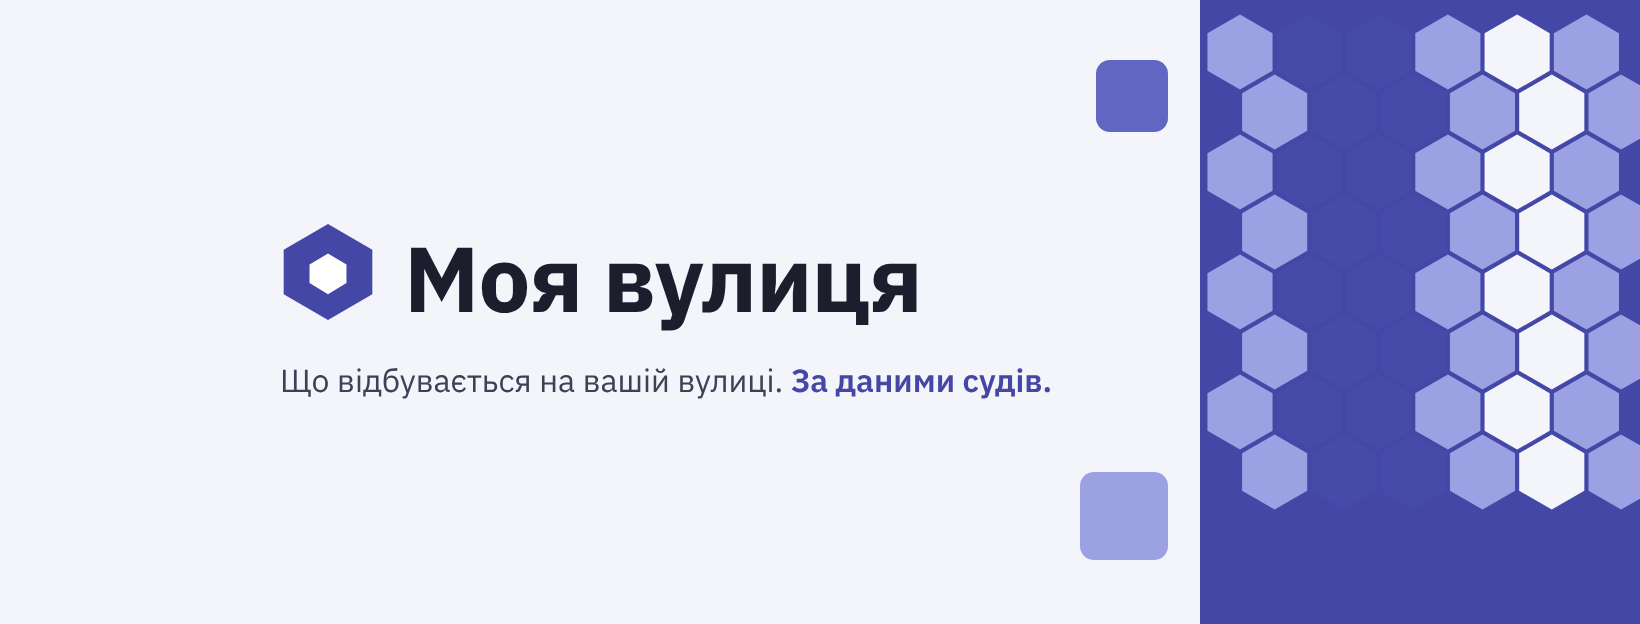
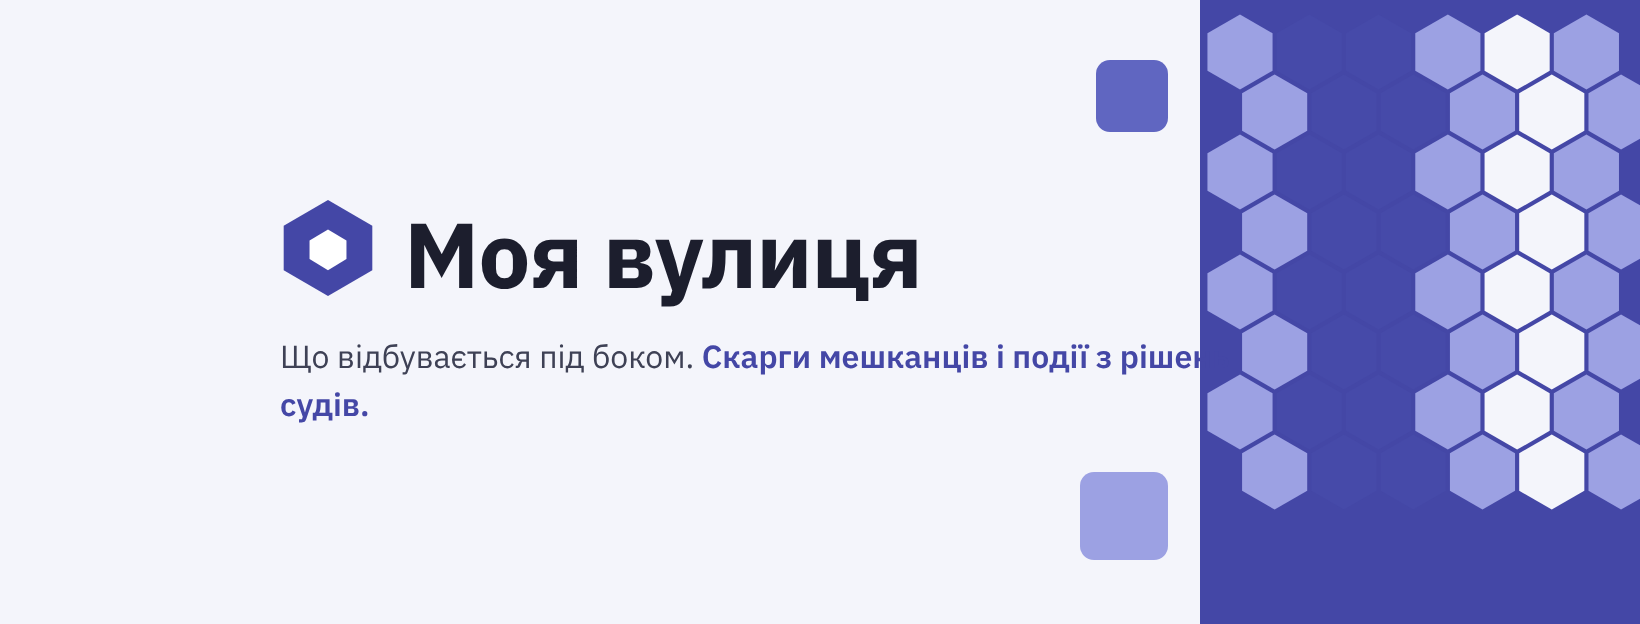
Нові гасла скрізь (MV-106, MV-107; ZAVDANNYA-93)
* ZAVDANNYA-93: нові гасла в профілях і обкладинках (MV-106)

Claude-Session: https://claude.ai/code/session_01R2AQHkkfLLALW9osnQmNE6

* ZAVDANNYA-93: нові гасла на сайті, заглушці й у маніфесті; тест старих гасел (MV-106, MV-107)

Claude-Session: https://claude.ai/code/session_01R2AQHkkfLLALW9osnQmNE6

* ZAVDANNYA-93: кінцівки роликів — нові гасла (MV-106)

Claude-Session: https://claude.ai/code/session_01R2AQHkkfLLALW9osnQmNE6

* ZAVDANNYA-93: звіт, знімки до/після, стан

Claude-Session: https://claude.ai/code/session_01R2AQHkkfLLALW9osnQmNE6

---------

Changed region(s): [[0.1555, 0.3045, 0.7463, 0.6699]]

diff --git a/site/zahlushka/index.html b/site/zahlushka/index.html
@@ -5,8 +5,8 @@
 <meta name="viewport" content="width=device-width, initial-scale=1">
 <meta name="referrer" content="no-referrer">
 <meta http-equiv="Content-Security-Policy" content="default-src 'self'; script-src 'self'; style-src 'self'; font-src 'self'; img-src 'self' data:; connect-src 'self' https://*.supabase.co; form-action 'none'; base-uri 'none'">
-<title>Моя вулиця — що суди розповіли про вашу вулицю</title>
-<meta name="description" content="Карта подій із судових рішень. Київ відкривається незабаром — залиште контакт на передзамовлення.">
+<title>Моя вулиця — що відбувається під боком</title>
+<meta name="description" content="Що відбувається під боком: скарги мешканців і події з рішень судів — по кожному будинку. Київ відкривається незабаром — залиште контакт на передзамовлення.">
 <link rel="preload" href="shryfty/ibm-plex-sans-cyrillic-700-normal.woff2" as="font" type="font/woff2" crossorigin>
 <link rel="preload" href="shryfty/ibm-plex-sans-cyrillic-400-normal.woff2" as="font" type="font/woff2" crossorigin>
 <meta name="theme-color" content="#4447A6" media="(prefers-color-scheme: light)">
@@ -35,7 +35,7 @@
 <section class="pershyi">
 <div class="pershyi__tekst">
 <span class="znachok"><span class="lyshe-komp">Київ відкривається незабаром</span><span class="lyshe-telefon">Київ незабаром</span></span>
-<h1>Що суди розповіли про вашу вулицю</h1>
+<h1>Що відбувається під боком</h1>
 <p class="pershyi__opys"><span class="lyshe-komp">Карта подій із судових рішень: ДТП, п'яні за кермом, крадіжки, бійки. Безкоштовно — числа по сотах, без адрес. Що було біля дому, який орендуєте чи купуєте, — у довідці про будинок.</span><span class="lyshe-telefon">Події з судових рішень: ДТП, п'яні за кермом, крадіжки, бійки. Біля конкретного дому — у довідці про будинок.</span></p>
 <form class="poshuk" id="poshuk" novalidate>
 <label for="adresa" class="poshuk__mitka"><span class="lyshe-komp">Адреса</span><span class="lyshe-telefon">Ваша адреса</span></label>
@@ -97,6 +97,7 @@
 <div class="kartka kartka--holovna">
 <span class="kartka__nazva">Довідка про будинок</span>
 <span class="kartka__tsina" data-tsina="dovidka">{{tsina.dovidka}} грн <small>разово</small></span>
+<span class="kartka__haslo">Що болить вашому будинку</span>
 <ul>
 <li>скарги 1551 і події з рішень судів біля будинку</li>
 <li>порівняння з сусідніми будинками</li>

diff --git a/site/sait/sait.css b/site/sait/sait.css
@@ -64,6 +64,11 @@ body.z-kartoyu .shapka__vnutri { max-width: none; padding: 6px 16px; min-height:
 .zaholovok h1 { margin: 0; font-size: 40px; line-height: 1.12; font-weight: 700; letter-spacing: -0.5px; }
 .zaholovok p { margin: 0; font-size: 18px; color: var(--ink-2); }
 .zaholovok p.onovleno { font-size: 14px; color: var(--muted); }
+.zaholovok p.zaholovok__opys { font-size: 15px; color: var(--muted); }
+/* Гасло лінії «Мій будинок» з описом дрібно (MV-106) */
+.haslo-linii { margin: 0; display: flex; flex-direction: column; gap: 2px; }
+.haslo-linii b { font-size: 20px; line-height: 26px; font-weight: 700; color: var(--accent); }
+.haslo-linii span { font-size: 14px; color: var(--muted); }
 .mitka { align-self: flex-start; font-size: 13px; font-weight: 600; background: var(--accent-soft); color: var(--ink); padding: 4px 12px; border-radius: var(--radius-pill); }
 .mitka--chernetka { background: var(--surface-tint); color: var(--ink-2); border: 1px dashed var(--mezha); }
 .rozdil { display: flex; flex-direction: column; gap: 16px; }

diff --git a/site/zahlushka/styli.css b/site/zahlushka/styli.css
@@ -103,6 +103,7 @@ h2.rozdil { margin: 0; font-family: Plex, system-ui, sans-serif; font-size: 32px
 .kartka__nazva { font-weight: 700; font-size: 18px; }
 .kartka__tsina { font-family: Plex, system-ui, sans-serif; font-size: 30px; font-weight: 800; }
 .kartka__tsina small { font-size: 16px; font-weight: 600; color: var(--muted); }
+.kartka__haslo { font-weight: 600; font-size: 15px; color: var(--accent); }
 .kartka ul { margin: 0; padding-left: 20px; display: flex; flex-direction: column; gap: 6px; font-size: 15px; }
 .knopka-kontur { margin-top: auto; text-align: center; border: 1.5px solid var(--accent); color: var(--accent); text-decoration: none; font-weight: 600; padding: 11px; border-radius: 12px; }
 .kartka__knopky { margin-top: auto; display: flex; flex-direction: column; gap: 8px; }

diff --git a/tests/test_hasla.py b/tests/test_hasla.py
@@ -1,0 +1,63 @@
+"""Гасла скрізь однакові (ZAVDANNYA-93, MV-52, MV-106, MV-107).
+
+Старих гасел «Що суди розповіли про вашу вулицю» і «Карта подій за даними судів» немає в жодному живому файлі продукту;
+нові — на головній, у заглушці, маніфесті, профілях мереж, обкладинках, на сторінках будинків і вітрині «Мій будинок».
+Історичні документи (журнал рішень, звірки, завдання, звіти) можуть цитувати старі гасла — їх не перевіряємо.
+"""
+from __future__ import annotations
+
+import json
+import sys
+import unittest
+from pathlib import Path
+
+KORIN = Path(__file__).resolve().parents[1]
+sys.path.insert(0, str(KORIN / 'site'))
+sys.path.insert(0, str(KORIN / 'site' / 'sait'))
+
+STARI = ('що суди розповіли про вашу вулицю', 'карта подій за даними судів', 'що відбувається на вашій вулиці')
+TEKY = ('site', 'brend', 'video', 'bot', 'avtopostynh', 'android', 'zvit_adresy')
+ROZSHYRENNIA = {'.py', '.html', '.js', '.css', '.json', '.md', '.webmanifest', '.txt', '.xml', '.kt', '.yml', '.sql'}
+
+
+class TestHasla(unittest.TestCase):
+    def test_starykh_hasel_nemaye(self):
+        znaideno = []
+        for teka in TEKY:
+            for f in (KORIN / teka).rglob('*'):
+                if f.is_file() and f.suffix in ROZSHYRENNIA:
+                    t = f.read_text(encoding='utf-8', errors='ignore').lower()
+                    znaideno += [f'{f.relative_to(KORIN)}: «{s}»' for s in STARI if s in t]
+        self.assertEqual(znaideno, [])
+
+    def test_novi_hasla_na_mistsi(self):
+        zahl = (KORIN / 'site/zahlushka/index.html').read_text(encoding='utf-8')
+        self.assertIn('<h1>Що відбувається під боком</h1>', zahl)
+        self.assertIn('Що болить вашому будинку', zahl)
+        man = json.loads((KORIN / 'site/zahlushka/manifest.webmanifest').read_text(encoding='utf-8'))
+        self.assertTrue(man['description'].startswith('Що відбувається під боком'))
+        self.assertIn('Що відбувається під боком', (KORIN / 'site/zibraty_sait.py').read_text(encoding='utf-8'))
+        prof = (KORIN / 'brend/teksty-profiliv.md').read_text(encoding='utf-8')
+        self.assertIn('> Моя вулиця — що відбувається під боком', prof)
+        for f in ('facebook', 'youtube'):
+            d = json.loads((KORIN / f'brend/dani/{f}.json').read_text(encoding='utf-8'))
+            self.assertTrue(all(p['gaslo'] == 'Що відбувається під боком.' for p in d['posty']))
+
+    def test_vitryny_i_budynok(self):
+        import storinky_mv100 as M
+        self.assertEqual(M.HASLO_BUDYNKU, 'Що болить вашому будинку')
+        self.assertEqual(M.OPYS_BUDYNKU, 'Скарги мешканців і події з рішень судів — по кожному будинку')
+        h = M.vitryna_miy_budynok('https://pryklad.ua', [])
+        self.assertIn('<h1>Що болить вашому будинку</h1>', h)
+        self.assertIn(M.OPYS_BUDYNKU, h)
+        self.assertIn(M.MESEDZH['miy-budynok'], h)
+        self.assertIn(M.MESEDZH['osbb'], M.vitryna_osbb('https://pryklad.ua'))
+        self.assertIn(M.MESEDZH['sudova-praktyka'], M.vitryna_sudova('https://pryklad.ua'))
+        self.assertIn(M.MESEDZH['biznes'], M.vitryna_biznes('https://pryklad.ua'))
+        # сторінка будинку: гасло лінії з описом дрібно над блоком довідки
+        src = (KORIN / 'site/storinky_mv100.py').read_text(encoding='utf-8')
+        self.assertIn('<section class="rozdil">{haslo_budynku()}<h2>Довідка про будинок</h2>', src)
+
+
+if __name__ == '__main__':
+    unittest.main()

diff --git a/site/zibraty_sait.py b/site/zibraty_sait.py
@@ -567,14 +567,14 @@ def storinka_pokazhchyka(vulytsi: list, rayony: list, adresa_saitu: str, rayon: 
 def holovna(dn: D.Dani, vulytsi: list, rayony: list, adresa_saitu: str, sudova_praktyka: bool = False) -> str:
     """Головна — одразу карта Києва з пошуком (AGENTS.md, розд. 3: без вступу), під нею — входи."""
     tilo = f'''<section class="vstup-ryad">
-<div><h1 class="h-mala">Що суди розповіли про вашу вулицю</h1>
+<div><h1 class="h-mala">Що відбувається під боком</h1>
 <p class="prymitka">{chyslo(len(vulytsi))} вулиць Києва зі своєю сторінкою: скільки подій, коли, яких видів. Дані станом на {e(dn.versiia)};
 безкоштовно — {PERIOD_VIDKRYTYI}, {PERIOD_ZAMKNENYI} — у підписці.</p></div>
 </section>
 <section class="vkhody" aria-label="Куди далі">
 <a class="vkhid" href="/vulytsi/"><span class="mikro">Покажчик</span><b>Усі вулиці</b><span>за абеткою й районами</span></a>
 <a class="vkhid" href="/karta/?ihry"><span class="mikro">Ігри на карті</span><b>Детектив тижня</b><span>щодня слід на карті, у неділю — розкриття</span></a>
-<a class="vkhid" href="/miy-budynok/"><span class="mikro">Мій будинок</span><b>Довідка — {TSINA_DOVIDKY}{NBSP}грн</b><span>скарги 1551 і події біля будинку</span></a>
+<a class="vkhid" href="/miy-budynok/"><span class="mikro">Мій будинок</span><b>Що болить вашому будинку</b><span>скарги 1551 і події біля будинку; довідка — {TSINA_DOVIDKY}{NBSP}грн</span></a>
 </section>
 <section class="vkhody" aria-label="Розділи">
 <a class="vkhid" href="/osbb/"><span class="mikro">Для ОСББ</span><b>Будинок щомісяця</b><span>звернення мешканців до 1551</span></a>
@@ -588,8 +588,8 @@ def holovna(dn: D.Dani, vulytsi: list, rayony: list, adresa_saitu: str, sudova_p
                       'inLanguage': 'uk'},
                      {'@context': 'https://schema.org', '@type': 'Organization', 'name': 'Моя вулиця', 'url': adresa_saitu + '/',
                       'logo': adresa_saitu + '/zahlushka/ikony/ikona-192.png'})
-    return storinka(shlyakh='/', title='Моя вулиця — що суди розповіли про вашу вулицю у Києві', dodatkovo_head=ld,
-                    opys='Карта Києва з подіями із судових рішень: скільки, коли, яких видів — на кожній вулиці. Покажчик вулиць, гра.',
+    return storinka(shlyakh='/', title='Моя вулиця — що відбувається під боком: вулиці й будинки Києва', dodatkovo_head=ld,
+                    opys='Що відбувається під боком: скарги мешканців і події з рішень судів — на кожній вулиці й по кожному будинку Києва. Карта, покажчик вулиць, гра.',
                     tilo=tilo, adresa_saitu=adresa_saitu, mapa=True, pered_main=ekran_karty(dn),
                     skrypty=('/sait/biblioteka/maplibre-gl-csp.js', '/sait/karta.js') + SKRYPTY_IHOR)
 

diff --git a/docs/ZVIT-93.md b/docs/ZVIT-93.md
@@ -1,0 +1,71 @@
+# ЗВІТ-93 — Нові гасла скрізь (MV-106, MV-107) і 3D лише верхні 12 % (MV-109)
+
+Виконавець — хмара, 17.11.2026. Гілка `ccr-aaa20c4e-3bqxye` в обох репозиторіях. Нічого не опубліковано, Release не чіпали.
+
+## Коротко для Андрія
+
+- Старих гасел «Що суди розповіли про вашу вулицю» і «Карта подій за даними судів» більше ніде немає: ні на сайті, ні на заглушці,
+  ні в описі застосунку, ні в текстах профілів, ні на обкладинках. Це перевіряє тест — якщо старе гасло повернеться, перевірка
+  стане червоною.
+- Скрізь тепер «Моя вулиця — що відбувається під боком». На сторінках будинків і на вітрині «Мій будинок» — «Що болить вашому
+  будинку», дрібно під ним — «Скарги мешканців і події з рішень судів — по кожному будинку».
+- На вітринах — меседжі ліній з компасу («Перш ніж орендувати чи купити…», «…щомісяця, у порівнянні із сусідами», «Як суди Києва
+  вирішують…», «Події й скарги по кожній адресі Києва…»).
+- Карта підписника в 3D: стовпчиками — лише найгустіші 12 % сот, як на безкоштовній карті; решта сот лежить під ними плоско.
+  Раніше стовпчиком ставала кожна друга сота — «ліс» без вершин.
+- Кольори видів не чіпав (чекають ZAVDANNYA-92).
+
+## 1. Гасла (MV-106, MV-107)
+
+| Де | Було | Стало |
+|---|---|---|
+| Головна сайту (`site/zibraty_sait.py`) — заголовок вкладки і `<h1>` | «Що суди розповіли про вашу вулицю» | «Моя вулиця — що відбувається під боком: вулиці й будинки Києва»; `<h1>` «Що відбувається під боком» |
+| Головна — вхід «Мій будинок» | «Довідка — 199 грн» | «Що болить вашому будинку» · «скарги 1551 і події біля будинку; довідка — 199 грн» |
+| Сторінка будинку (`site/storinky_mv100.py`) | — | над блоком «Довідка про будинок»: «Що болить вашому будинку» + опис дрібно |
+| Вітрина «Мій будинок» | `<h1>` «Мій будинок» | мітка «Мій будинок · для мешканців…», `<h1>` «Що болить вашому будинку», опис дрібно, меседж лінії |
+| Вітрини «Для ОСББ», «Судова практика», «Для бізнесу» | власні вступи | вступ починається з меседжу лінії (KOMPAS, розд. 3) |
+| Заглушка (`site/zahlushka/index.html`) | заголовок і `<h1>` старі | «Моя вулиця — що відбувається під боком», `<h1>` «Що відбувається під боком»; на картці довідки — «Що болить вашому будинку» |
+| Маніфест застосунку | «Що суди розповіли…» | «Що відбувається під боком: скарги мешканців і події з рішень судів — по кожному будинку.» |
+| Профілі мереж (`brend/teksty-profiliv.md`) | «Що відбувається на вашій вулиці. Карта подій за даними судів.» | основний короткий — «Моя вулиця — що відбувається під боком» (38 знаків); довгий — з гаслом лінії; запасні — без старих гасел |
+| Обкладинки YouTube і Facebook (`brend/dani/*.json` → `brend/hotovi/`) | «Що відбувається на вашій вулиці. За даними судів.» | «Що відбувається під боком. Скарги мешканців і події з рішень судів.» — перезібрано |
+| Обкладинки роликів «Тур району», «Вулиця в цифрах» | «…За даними судів.» | «Що відбувається під боком — …» — перезібрано |
+| Кінцівки роликів (`video/stsenarii/*.json`, лише тексти) | «Карта подій Києва — скоро», «Звіт по адресі — скоро» | «Моя вулиця — що відбувається під боком»; «Що болить вашому будинку?» + опис |
+
+Гасла й меседжі на сайті — в одному місці: `HASLO_BUDYNKU`, `OPYS_BUDYNKU`, `MESEDZH` у `site/storinky_mv100.py`.
+
+**Тест** — `tests/test_hasla.py`: старих гасел (і «Що відбувається на вашій вулиці») немає в жодному файлі `site/`, `brend/`, `video/`,
+`bot/`, `avtopostynh/`, `android/`, `zvit_adresy/`; нові — на місці (заглушка, маніфест, головна, профілі, обкладинки, вітрини,
+сторінка будинку). Історичні документи (журнал, звірки, перевірка сайту) цитують старі гасла як знахідки — там позначено
+«замінено MV-106 (ZAVDANNYA-93)»: `docs/ZVIRKA-LINII.md`, `docs/PEREVIRKA-SAITU.md` (Т-1), `docs/PLAN-REKLAMY-I-ZAPUSKU.md`,
+`docs/03-dani-i-etyka.md`, `docs/KOMPAS.md`.
+
+## 2. 3D карти підписника (MV-109, MV-55) — `dani-edrsr`
+
+- `site_src/pidpysnyk.js`: у 3D стовпчиками лишаються лише соти з часткою ≥ 0,88 (верхні 12 % сот рівня) — той самий поріг, що
+  на безкоштовній карті (`site/sait/karta.js`, `VERSHYNA = 0.88`). М'ятна шкала стовпчиків тепер — від нижчої до найвищої серед
+  вершин. Під стовпчиками — плоскі соти (рушій у 3D їх ховав; обгортка `drawHex`, сам рушій не змінено, S-Д.8). У легенді в 3D —
+  «стовпчиком — найгустіші 12 % сот».
+- Тест `check_build`: `karta_pidpysnyka_3d` — виконує шматок `pidpysnyk.js` у node на 100 сотах: стовпчиків рівно 12 найгустіших,
+  2D — усі 100, на 50 однакових сотах — жодного; плюс файл цілий розбирається (помилка синтаксису ламає всю карту — я сам її спершу
+  допустив, і стара перевірка її не бачила). Перевірено, що тест червоніє на старому коді.
+- `SPECYFIKATSIYA.md`, S-Д.8 — правило й тест дописано. Нового запису в журналі немає: рішення вже є (MV-109).
+
+## Знімки до/після — `docs/znimky-93/`
+
+Без номерів житлових будинків: сторінку будинку знято на навчальних числах з тесту (`tests/test_sait.py`), номер на знімку
+замінено на «··». Решта — пробний випуск 08.11.
+
+- `holovna-1280-*`, `miy-budynok-1280-*`, `osbb-1280-*`, `zahlushka-390-*`, `budynok-390-*`, `budynok-1280-*`;
+- `karta-pidpysnyka-3d-do.jpg` / `-pislia.jpg` — 3D на пробному випуску (місто);
+- обкладинки — `brend/hotovi/youtube/`, `facebook/`, `oblozhka-rolyka/`.
+
+## Перевірки
+
+- `moya-vulytsya`: `python -m unittest discover -s tests` — 253 тести, гаразд.
+- `dani-edrsr`: `python src/check_build.py` — «усе гаразд».
+
+## Що не перевірено
+
+- Сторінки будинків на справжніх даних 1551 не зібрано (у хмарі немає гілки `dani-1551`) — лише навчальні числа.
+- Знімки підкладки брали з мережі (OpenFreeMap); на ПК могли б виглядати інакше.
+- Пости з історіями (`post-istoriya`, `storis-vhadai`, `post-tsyfry`) не перезбирав: старих гасел там немає.

diff --git a/docs/PEREVIRKA-SAITU.md b/docs/PEREVIRKA-SAITU.md
@@ -60,7 +60,7 @@ python site/zibraty_sait.py events-2026-11-08.db sait --pereimenuvannya ../dani-
 
 | № | Що | Де | Доказ |
 |---|---|---|---|
-| Т-1 | **Старе гасло** «Що суди розповіли про вашу вулицю» — у заголовку й `<h1>` головної, на заглушці й у маніфесті застосунку; гасла бренду «Моя вулиця — що відбувається під боком» і лінії «Що болить вашому будинку» на головній немає (MV-106: замінити скрізь — у черзі) | `site/zibraty_sait.py:524`, `:540`; `site/zahlushka/index.html:8`, `:37`; `site/zahlushka/manifest.webmanifest:5` | `znimky-98/holovna.jpg`, `zahlushka-telefon.jpg` |
+| Т-1 | **Старе гасло** «Що суди розповіли про вашу вулицю» — у заголовку й `<h1>` головної, на заглушці й у маніфесті застосунку; гасла бренду «Моя вулиця — що відбувається під боком» і лінії «Що болить вашому будинку» на головній немає (MV-106: **замінено — ZAVDANNYA-93**) | `site/zibraty_sait.py:524`, `:540`; `site/zahlushka/index.html:8`, `:37`; `site/zahlushka/manifest.webmanifest:5` | `znimky-98/holovna.jpg`, `zahlushka-telefon.jpg` |
 | Т-2 | **Пошук не знаходить будинок.** На вітрині «Мій будинок» (вхід лінії «Мій будинок») і в покажчику «Гоголівська 2а» дає «Такої вулиці в даних немає»; пошук розуміє лише назву вулиці. Стара назва («Червоноармійська») теж не знаходиться, хоча сторінка-переадресація є | `site/sait/poshuk.js:22-35`; покажчик — `site/zibraty_sait.py:812` | перевірено в браузері |
 | Т-3 | **Оплата губить вибір:** кнопка «Довідка — 199 грн» веде на `/oplata/?tovar=dovidka&budynok=…`, але сторінка оплати ці параметри не читає, а «Залишити пошту» веде на заглушку лише з `?dzherelo=oplata` — що й для якого будинку хотіли купити, не зберігається (втрачається найцінніше число воронки MV-5) | `site/storinky_mv100.py:492-498` | перевірено в браузері |
 | Т-4 | **≈ 50 «вулиць» зі сміттям у назві** — шматки тексту рішення стали окремими сторінками: «вулиця С. Петлюри. Грубо порушуючи вимоги п. п», «вулиця Богатирської на проспект Степана Бандери», «вулиця Ю. Іллєнка навпроти будівлі номер», «… біля», «… навпроти», «… поблизу», «Набержно-Хрещатицька» (друкарська помилка поруч зі справжньою). У пошуку Google їх немає (1 подія — `noindex`), але вони є в пошуку на сайті, у покажчиках вулиць і районів | `site/sait/dani.py:89-125` (`rozibraty_vulytsiu` прибирає лише «… будинку») | список — у розд. 5 |

diff --git a/brend/teksty-profiliv.md b/brend/teksty-profiliv.md
@@ -10,28 +10,28 @@
 
 Для TikTok (поле «Про себе» — до 80), підпису під назвою в Телеграмі, короткого опису Facebook.
 
-Основний (61):
-> Що відбувається на вашій вулиці. Карта подій за даними судів.
+Основний (38) — гасло бренду (MV-52, MV-106):
+> Моя вулиця — що відбувається під боком
 
 Запасні:
-> Події на вашій вулиці — з рішень судів, людською мовою.
+> Що болить вашому будинку. Скарги мешканців і події з рішень судів.
 
-> Вулиці Києва у цифрах та історіях. За даними судів.
+> Що відбувається під боком: вулиці Києва у цифрах та історіях.
 
 ## Довше — до 150 знаків
 
 Для Instagram (поле «Про себе» — до 150), опису Телеграм-каналу, першого рядка опису YouTube.
 
-Основний (136):
-> Моя вулиця — карта подій Києва з судових рішень: що ставалося біля вашого дому і скільки. Без оцінок — лише дані й посилання на рішення.
+Основний (133):
+> Моя вулиця — що відбувається під боком. Що болить вашому будинку: скарги мешканців і події з рішень судів — по кожному будинку Києва.
 
 Запасні:
 > Історії з рішень судів і цифри про вулиці Києва. Грайте у «Вгадай, де це було» і перевіряйте свою адресу на карті.
 
-> Що відбувається на вашій вулиці — за даними судів. Короткі історії з рішень, цифри по вулицях і гра «Вгадай, де це було».
+> Що відбувається під боком: короткі історії з рішень судів, цифри по вулицях і гра «Вгадай, де це було».
 
 ## Назва скрізь
 
 > Моя вулиця
 
-Підпис під кожною картинкою й роликом (дрібно): «Дані: судові рішення ЄДРСР».
+Підпис під кожною картинкою й роликом (дрібно): «Дані: судові рішення ЄДРСР». На сторінки будинків і вітрину «Мій будинок» — гасло лінії «Що болить вашому будинку», дрібно під ним: «Скарги мешканців і події з рішень судів — по кожному будинку» (MV-106).

diff --git a/docs/ZVIRKA-LINII.md b/docs/ZVIRKA-LINII.md
@@ -165,7 +165,7 @@
    лише те, що дійшло до суду»). **Змінити:** дописати в незмінний рядок джерела шаблонів і ролика.
 5. **Гасло «Що суди розповіли про вашу вулицю»** — `site/zahlushka/index.html:8, 37`, `manifest.webmanifest:5`,
    `site/zibraty_sait.py:445, 456`. Подача MV-52: «Моя вулиця — що відбувається під боком»; `AGENTS.md` розд. 1 — «ми не є
-   картою судів». «Суди розповіли» ставить у центр джерело, а не вулицю. Профілі (`teksty-profiliv.md:14`) ближчі.
+   картою судів». «Суди розповіли» ставить у центр джерело, а не вулицю. Профілі (`teksty-profiliv.md:14`) ближчі. **Замінено MV-106 (ZAVDANNYA-93).**
    **Змінити:** одне гасло скрізь за MV-52 (рішення Андрія).
 6. **Безкоштовно — «за 2016–2026 роки».** `site/zahlushka/index.html:9, 38` і `manifest.webmanifest:5` обіцяють події за 10
    років, а безкоштовна карта показує останні 3 роки (MV-32; ZAVDANNYA-46). **Змінити:** «10 років — у підписці й аналізі».
@@ -338,7 +338,7 @@ MV-21, MV-24–MV-28, MV-32, MV-34, MV-46, MV-50, MV-52, MV-55, MV-58, `docs/STY
   прибрано кодом, але коло лишилось. Потрібні числа по вулиці або сотах — новий розрахунок.
 - Б3 — база порівняння «2,2× … ніж у середньому по Києву» в пості.
 - Б4 (решта) — обкладинки YouTube і Facebook, обкладинки роликів, тексти профілів — без «лише те, що дійшло до суду».
-- Б5 — гасло «Що суди розповіли про вашу вулицю» (заглушка, маніфест, сайт) — рішення Андрія.
+- Б5 — гасло «Що суди розповіли про вашу вулицю» (заглушка, маніфест, сайт) — рішення Андрія: замінено MV-106 (ZAVDANNYA-93).
 - Б7 — дві назви: «Звіт по адресі» (сайт, кінцівка ролика) і «Аналіз адреси».
 - Б9 — тексти профілів обіцяють адресу безкоштовно.
 - Б10 — кнопка «Перевірити адресу» поруч з орендою (слабке).

diff --git a/docs/KOMPAS.md b/docs/KOMPAS.md
@@ -15,7 +15,7 @@
 - **Гасло (MV-52):** «Моя вулиця — що відбувається під боком».
 - **Гасло лінії «Мій будинок» (MV-106):** «Що болить вашому будинку» — сторінки будинків, вітрина «Мій будинок», реклама
   довідки. Під ним дрібно — опис: «Скарги мешканців і події з рішень судів — по кожному будинку».
-- Старі «Що суди розповіли про вашу вулицю» (заглушка, сайт) і «Карта подій за даними судів» (профілі мереж) — **замінити**.
+- Старі «Що суди розповіли про вашу вулицю» (заглушка, сайт) і «Карта подій за даними судів» (профілі мереж) — **замінено** (ZAVDANNYA-93; перевіряє `tests/test_hasla.py`).
 - **Знак:** сота в соті (індиго на світлому тлі) — `brend/hotovi/avatar/`. Карта складається із сот; будинок — найменша сота.
 - **Колір:** «Індиго й м'ята» (MV-58); колір = скільки даних, не небезпека; жодного червоного.
 - **Шрифт і дотик:** IBM Plex Sans; кнопки — клавіші, соти пружинять (`docs/STYL.md`).
@@ -99,6 +99,6 @@
 
 ## 7. Чекає «так» Андрія
 
-- Меседжі ліній (MV-107) і гасла (MV-106) прийнято — завдання замінити старі гасла скрізь (сайт, заглушка, профілі мереж,
-  обкладинки, ролики) — у черзі.
+- Меседжі ліній (MV-107) і гасла (MV-106) прийнято; старі гасла замінено скрізь (сайт, заглушка, профілі мереж,
+  обкладинки, ролики) — ZAVDANNYA-93.
 - Нові лінії — вирішено MV-113.
